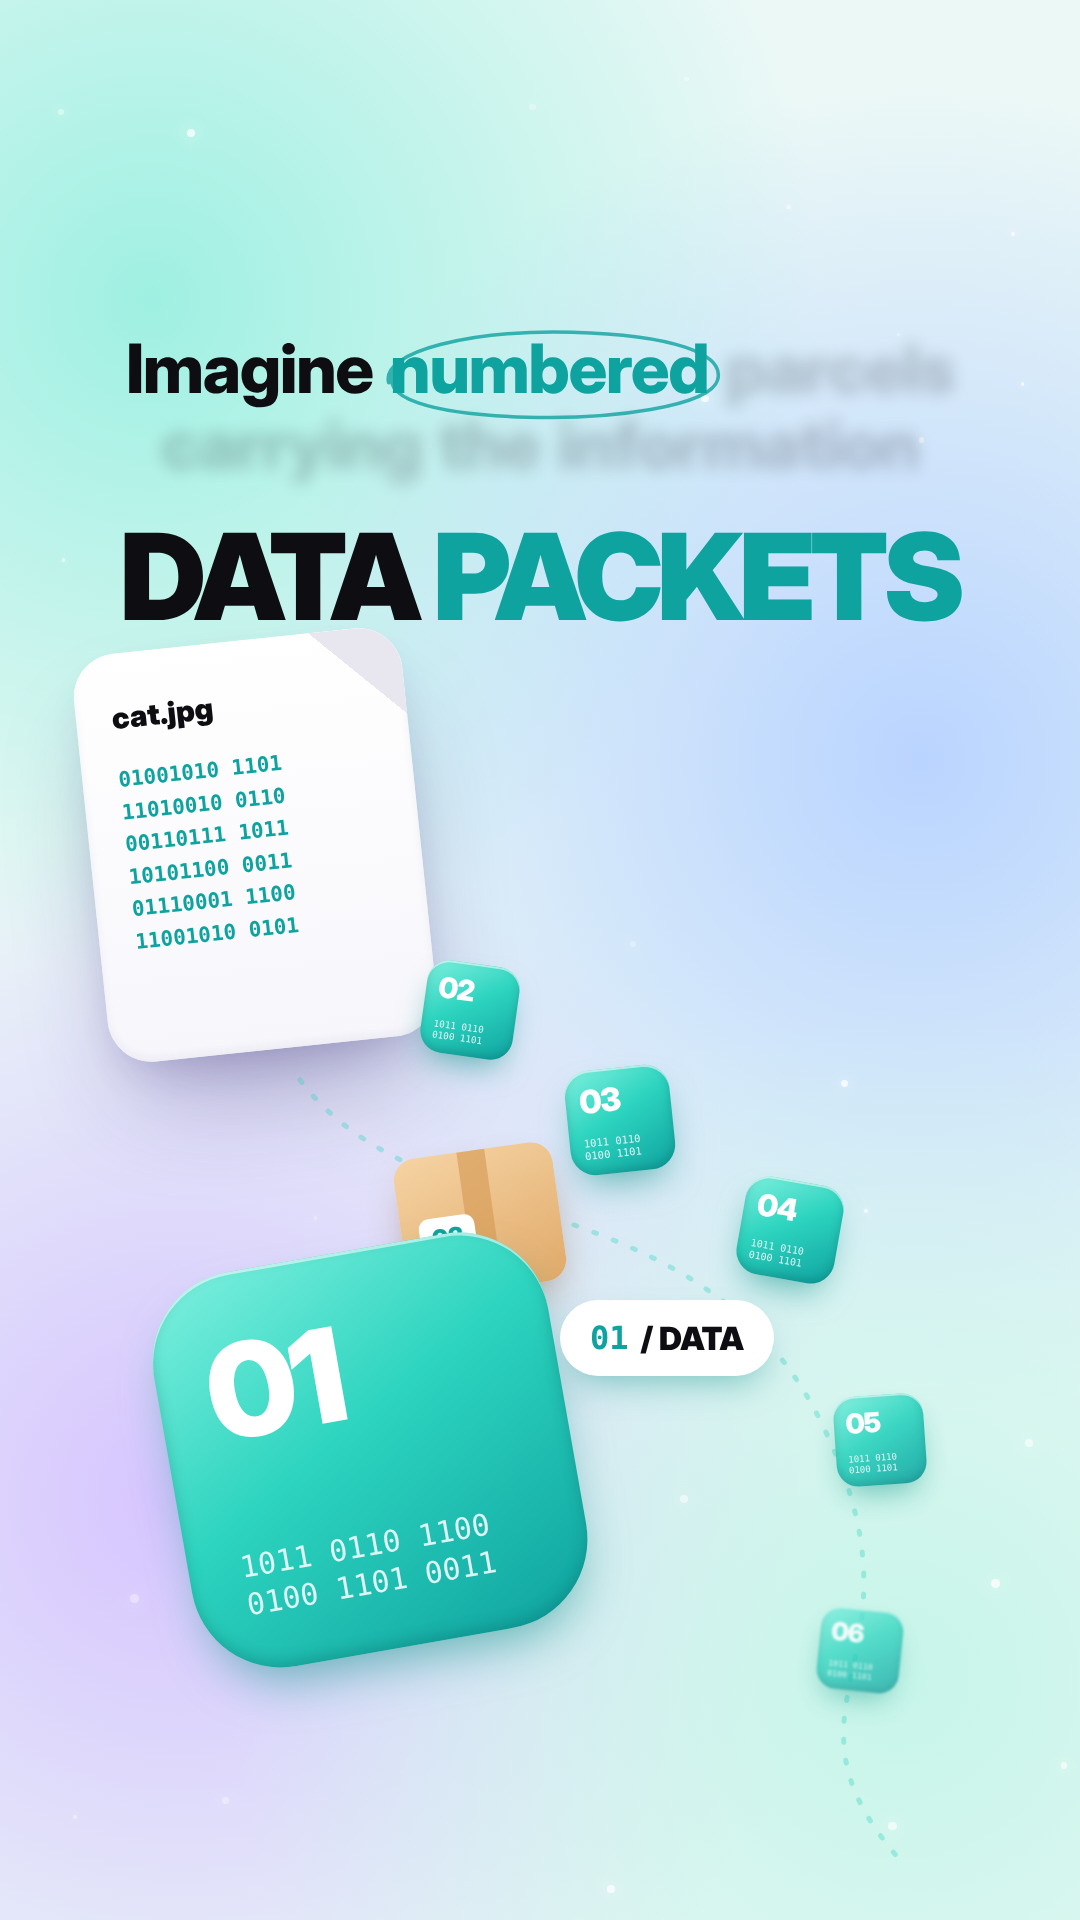
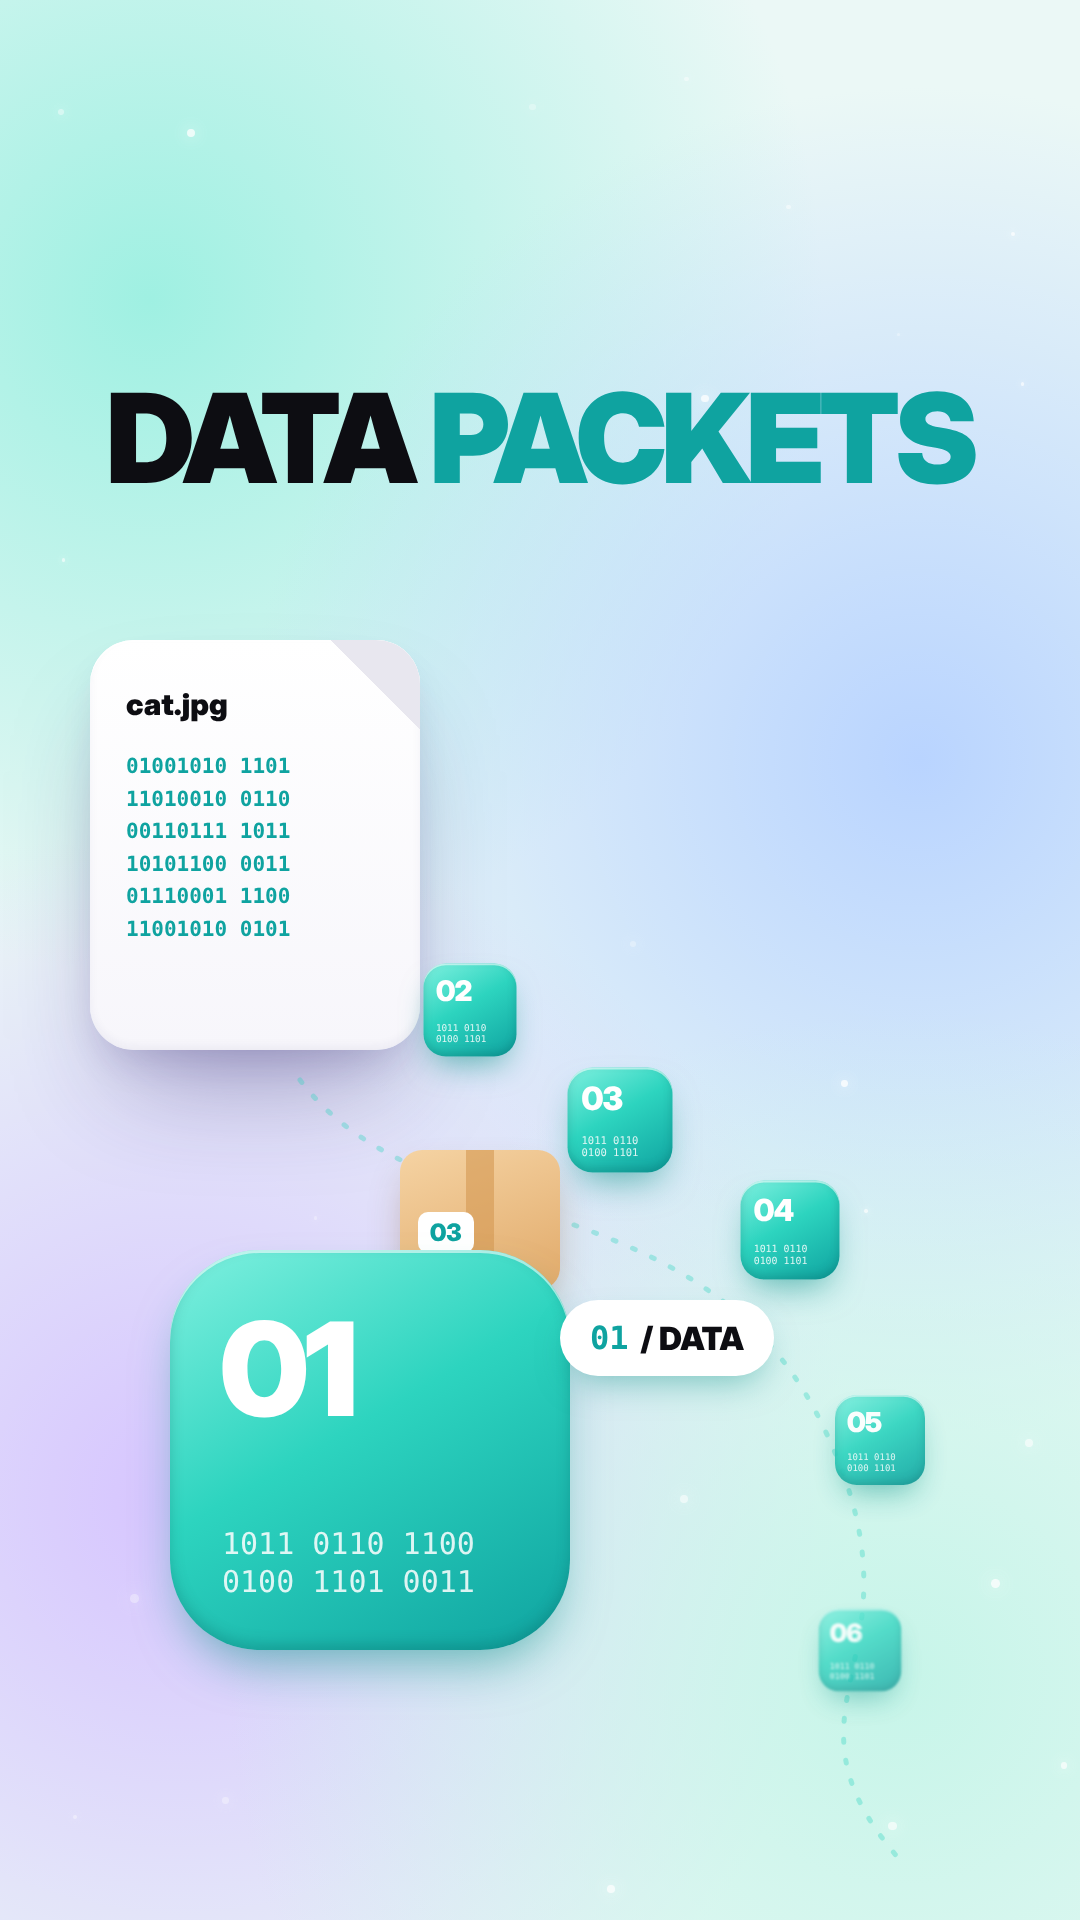
send-photo: keyframe mockup v2 (straight tiles, no top subtitles)
Claude-Session: https://claude.ai/code/session_01QM2gWBww91cH489KLK5YTv

diff --git a/projects/send-photo/src/mockup.html b/projects/send-photo/src/mockup.html
@@ -49,7 +49,8 @@ const ell2=0;const icon=(n,s,c,sw=2)=>`<svg width="${s}" height="${s}" viewBox="
 function bg(base,c){return `<div class="abs" style="inset:0;background:${base}">${[[150,300],[920,760],[180,1500],[900,1680]].map((p,i)=>`<div class="blob" style="left:${p[0]-700}px;top:${p[1]-700}px;background:radial-gradient(circle,${c[i]} 0%,${c[i]}00 68%)"></div>`).join('')}</div>`}
 function dust(n=30){let s='';for(let i=0;i<n;i++){const h=k=>{const x=Math.sin((i+k)*127.1+311.7)*43758.5453;return x-Math.floor(x)};const r=3+h(1)*6;s+=`<div class="abs" style="left:${h(2)*1080}px;top:${h(3)*1920}px;width:${r}px;height:${r}px;border-radius:50%;background:#fff;opacity:${.3+h(4)*.5};box-shadow:0 0 ${r*2}px #fff"></div>`}return s}
 // subtitle: words, number revealed, key word index → colour
-function sub(text,revealed,key={},y=330,ring={}){const w=text.split(' ');return `<div class="sub" style="top:${y}px">${w.map((x,i)=>`<span class="${i<revealed?'':'g'}" ${(key[i]&&i<revealed&&ring[i]!==0)?`data-k="${key[i]}"`:''} style="color:${key[i]||'#0d0d12'}">${x}</span>`).join('')}</div>`}
+function sub(){return '';}
+function subOld(text,revealed,key={},y=330,ring={}){const w=text.split(' ');return `<div class="sub" style="top:${y}px">${w.map((x,i)=>`<span class="${i<revealed?'':'g'}" ${(key[i]&&i<revealed&&ring[i]!==0)?`data-k="${key[i]}"`:''} style="color:${key[i]||'#0d0d12'}">${x}</span>`).join('')}</div>`}
 function ell(x,y,w,h,c){return `<svg class="abs" style="left:${x}px;top:${y}px;overflow:visible" width="${w}" height="${h}" viewBox="0 0 100 40" preserveAspectRatio="none"><path d="M8 24C6 12 30 4 56 5c26 1 40 8 38 18-2 10-28 15-50 14C20 36 4 30 10 18" fill="none" stroke="${c}" stroke-linecap="round" vector-effect="non-scaling-stroke" style="stroke-width:3.5px;opacity:.8"/></svg>`}
 
 // ── chat screens
@@ -64,21 +65,21 @@ function composer(withPhoto){return `
      <div style="position:absolute;left:345px;top:68px;font-weight:600;font-size:22px;color:#8b8a97">1 photo selected</div></div>`:''}
   <div class="abs" style="left:28px;bottom:40px;width:350px;height:92px;border-radius:46px;background:#f1f0f6;display:flex;align-items:center;padding-left:30px;color:#a5a4b0;font-weight:600;font-size:28px">Message</div>
   <div class="abs pill" id="sendBtn" style="right:28px;bottom:40px;width:170px;height:92px;background:linear-gradient(160deg,#ffae4a,#ff6a00);color:#fff;font-weight:900;font-size:32px;gap:8px;box-shadow:0 14px 30px -8px rgba(255,110,0,.6)">Send ${icon('send',30,'#fff',3)}</div>`}
-function phone(inner,x,y,s=1,rot='',extra=''){return `<div class="phone" style="left:${x-300}px;top:${y-620}px;transform:perspective(2200px) ${rot} scale(${s});${extra}"><div class="screen"><div class="island"></div>${inner}</div></div>`}
-function finger(x,y,s=1,press=0){return `<svg class="abs" id="finger" data-s="${s}" style="left:${x}px;top:${y}px;transform:rotate(-24deg) scale(${s});transform-origin:105px 30px;filter:drop-shadow(0 30px 30px rgba(60,30,40,.35))" width="210" height="520" viewBox="0 0 210 520">
+function phone(inner,x,y,s=1,rot='',extra=''){return `<div class="phone" style="left:${x-300}px;top:${y-620}px;transform:scale(${s});${extra}"><div class="screen"><div class="island"></div>${inner}</div></div>`}
+function finger(x,y,s=1,press=0){return `<svg class="abs" id="finger" data-s="${s}" style="left:${x}px;top:${y}px;transform:scale(${s});transform-origin:105px 30px;filter:drop-shadow(0 30px 30px rgba(60,30,40,.35))" width="210" height="520" viewBox="0 0 210 520">
   <defs><linearGradient id="sk" x1="0" x2="1"><stop offset="0" stop-color="#e9a983"/><stop offset=".5" stop-color="#f7cdb2"/><stop offset="1" stop-color="#df9874"/></linearGradient>
   <linearGradient id="nl" x1="0" y1="0" x2="0" y2="1"><stop offset="0" stop-color="#fbe3d8"/><stop offset="1" stop-color="#efbfae"/></linearGradient></defs>
   <path d="M40 520 L30 130 Q30 22 105 22 Q180 22 180 130 L176 520 Z" fill="url(#sk)"/>
   <path d="M66 86 Q105 40 144 86 L140 168 Q105 182 70 168 Z" fill="url(#nl)" stroke="#d99a83" stroke-width="2"/>
   <path d="M70 270 Q105 282 140 270M74 300 Q105 310 136 300" stroke="#c9876a" stroke-width="3" fill="none" opacity=".5" stroke-linecap="round"/></svg>`}
-function blk(x,y,n,s=1,r=0,o=1,blur=0){return `<div class="blk" style="left:${x-75}px;top:${y-75}px;transform:rotate(${r}deg) scale(${s});opacity:${o};filter:${blur?`blur(${blur}px)`:'none'}">
+function blk(x,y,n,s=1,r=0,o=1,blur=0){return `<div class="blk" style="left:${x-75}px;top:${y-75}px;transform:scale(${s});opacity:${o};filter:${blur?`blur(${blur}px)`:'none'}">
   <div class="n">${n}</div><div class="bits mono">1011 0110<br>0100 1101</div></div>`}
 
 // ── frames
 const F={};
 F['1a']=()=>bg('#f7efe9',['#ffc28c','#ff9fcf','#b8a3ff','#ffe39a'])+dust()+
   sub('You tap Send.',3,{2:'#FF7A1A'})+
-  phone(chatHeader('Alex','linear-gradient(160deg,#7aa2ff,#4f6bff)')+composer(true),540,1040,1.0,'rotateX(10deg) rotateY(-16deg) rotateZ(2deg)')+finger(0,0,1.25);
+  phone(chatHeader('Alex','linear-gradient(160deg,#7aa2ff,#4f6bff)')+composer(true),540,950,1.1,'rotateX(10deg) rotateY(-16deg) rotateZ(2deg)')+finger(0,0,1.25);
 
 F['1b']=()=>bg('#f6eef8',['#ffc9a0','#c9b2ff','#a9c8ff','#ffd2e6'])+dust()+
   sub('But how does this photo actually reach your friend?',6,{})+
@@ -88,27 +89,27 @@ F['1b']=()=>bg('#f6eef8',['#ffc9a0','#c9b2ff','#a9c8ff','#ffd2e6'])+dust()+
   phone(chatHeader('Sam','linear-gradient(160deg,#ffae4a,#ff6a00)')+composer(false),830,1330,.62,'rotateY(-14deg)')+
   `<svg class="abs" style="left:0;top:0" width="1080" height="1920"><path d="M410 1320 C 500 1260, 580 1260, 670 1320" stroke="#2dd4bf" stroke-width="7" fill="none" stroke-linecap="round" stroke-dasharray="2 16"/>
    ${[[470,1280],[540,1270],[610,1282]].map(p=>`<circle cx="${p[0]}" cy="${p[1]}" r="9" fill="#2dd4bf"/>`).join('')}</svg>`+
-  `<div class="abs" style="left:478px;top:1178px;width:124px;height:176px;border-radius:22px;overflow:hidden;transform:rotate(-6deg);box-shadow:0 20px 40px -10px rgba(40,30,110,.45);border:5px solid #fff"><img src="${CAT}" style="width:100%;height:100%;object-fit:cover"></div>`+
-  `<div class="cap" style="left:0;width:1080px;top:560px;font-size:104px">HOW DOES IT<br>GET <span style="color:#14b8a6">THERE?</span></div>`;
+  `<div class="abs" style="left:478px;top:1178px;width:124px;height:176px;border-radius:22px;overflow:hidden;box-shadow:0 20px 40px -10px rgba(40,30,110,.45);border:5px solid #fff"><img src="${CAT}" style="width:100%;height:100%;object-fit:cover"></div>`+
+  `<div class="cap" style="left:0;width:1080px;top:400px;font-size:116px">HOW DOES IT<br>GET <span style="color:#14b8a6">THERE?</span></div>`;
 
 F['2']=()=>bg('#ebf8f6',['#9ff0e2','#b9d4ff','#d6c4ff','#c7f5e9'])+dust()+
   sub('Imagine numbered parcels carrying the information',2,{1:'#0FA3A0'})+
   // file icon with data lines
-  `<div class="card" style="left:90px;top:640px;width:330px;height:410px;border-radius:44px;transform:rotate(-6deg)">
+  `<div class="card" style="left:90px;top:640px;width:330px;height:410px;border-radius:44px">
      <div class="abs" style="right:0;top:0;width:90px;height:90px;background:linear-gradient(225deg,#e8e7ef 50%,transparent 50%)"></div>
      <div class="abs mono" style="left:36px;top:110px;font-size:21px;line-height:1.55;color:#0fa3a0;font-weight:700">01001010 1101<br>11010010 0110<br>00110111 1011<br>10101100 0011<br>01110001 1100<br>11001010 0101</div>
      <div class="abs" style="left:36px;top:46px;font-weight:900;font-size:30px">cat.jpg</div></div>`+
   `<svg class="abs" style="left:0;top:0" width="1080" height="1920"><path d="M300 1080 C 420 1240, 700 1180, 820 1420 S 760 1700, 900 1860" stroke="#2dd4bf" stroke-width="5" fill="none" opacity=".35" stroke-dasharray="3 18" stroke-linecap="round"/></svg>`+
   blk(470,1010,'02',.62,8)+blk(620,1120,'03',.7,-6)+blk(790,1230,'04',.66,10)+blk(880,1440,'05',.6,-4,.9)+blk(860,1650,'06',.55,6,.75,2)+
   // parcels
-  `<div class="abs" style="left:400px;top:1150px;transform:rotate(-8deg)"><div class="sq" style="width:160px;height:140px;border-radius:22px;background:linear-gradient(160deg,#f5d3a3,#e1aa6a);box-shadow:0 20px 40px -12px rgba(120,70,20,.45);position:relative">
+  `<div class="abs" style="left:400px;top:1150px"><div class="sq" style="width:160px;height:140px;border-radius:22px;background:linear-gradient(160deg,#f5d3a3,#e1aa6a);box-shadow:0 20px 40px -12px rgba(120,70,20,.45);position:relative">
      <div style="position:absolute;left:66px;top:0;width:28px;height:100%;background:#d39752;opacity:.6"></div>
      <div style="position:absolute;left:18px;top:62px;padding:6px 12px;border-radius:10px;background:#fff;font-weight:900;font-size:24px;color:#0fa3a0">03</div></div></div>`+
   // hero block close to camera
-  `<div class="blk" style="left:170px;top:1250px;width:400px;height:400px;border-radius:90px;transform:rotate(-10deg)"><div class="n" style="left:50px;top:40px;font-size:130px">01</div>
+  `<div class="blk" style="left:170px;top:1250px;width:400px;height:400px;border-radius:90px"><div class="n" style="left:50px;top:40px;font-size:130px">01</div>
      <div class="bits mono" style="left:52px;bottom:50px;font-size:30px">1011 0110 1100<br>0100 1101 0011</div></div>`+
   `<div class="pill" style="position:absolute;left:560px;top:1300px;height:76px;padding:0 30px;background:#fff;box-shadow:0 16px 34px -12px rgba(13,148,136,.5);font-weight:900;font-size:32px;color:#0d0d12;gap:12px"><span class="mono" style="color:#0fa3a0">01</span> / DATA</div>`+
-  `<div class="cap" style="left:0;width:1080px;top:520px;font-size:120px;color:#0d0d12">DATA <span style="color:#0fa3a0">PACKETS</span></div>`;
+  `<div class="cap" style="left:0;width:1080px;top:380px;font-size:124px;color:#0d0d12">DATA <span style="color:#0fa3a0">PACKETS</span></div>`;
 
 F['3']=()=>{
   const nodes=[[300,1150],[700,1010],[380,860]];
@@ -132,7 +133,7 @@ F['3']=()=>{
   blk(470,1240,'01',.42,-8)+blk(330,1010,'02',.36,6,.85)+
   `<div class="abs" style="left:640px;top:1100px;font-weight:900;font-size:22px;letter-spacing:.1em;color:#8b8a97">NODE</div>`+
   `<div class="cap" style="left:470px;top:960px;font-size:96px;text-align:left;transform:translateX(330px) translateX(-100%)"></div>`+
-  `<div class="cap" style="left:140px;top:1720px;width:800px;font-size:118px;color:#3d6bff">ROUTERS</div>`;};
+  `<div class="cap" style="left:0;top:360px;width:1080px;font-size:124px;color:#3d6bff">ROUTERS</div>`;};
 
 F['4']=()=>`<div class="abs" style="inset:0;background:linear-gradient(180deg,#e9f6ff 0%,#bfe6f3 18%,#7ccbe0 45%,#3e9fc0 75%,#2a7fa6 100%)"></div>`+
   // light rays
@@ -146,7 +147,7 @@ F['4']=()=>`<div class="abs" style="inset:0;background:linear-gradient(180deg,#e
      <defs><linearGradient id="sh" x1="0" y1="0" x2="0" y2="1"><stop offset="0" stop-color="#5b6170"/><stop offset=".45" stop-color="#2a2f3a"/><stop offset="1" stop-color="#151820"/></linearGradient>
        <linearGradient id="in" x1="0" y1="0" x2="0" y2="1"><stop offset="0" stop-color="#1f3b4d"/><stop offset="1" stop-color="#0b1a24"/></linearGradient>
        <filter id="gl"><feGaussianBlur stdDeviation="6"/></filter></defs>
-     <g transform="rotate(-14 540 1300)">
+     <g>
        <rect x="-200" y="1210" width="1500" height="200" rx="100" fill="url(#sh)"/>
        <rect x="260" y="1210" width="560" height="200" fill="url(#in)"/>
        <ellipse cx="260" cy="1310" rx="34" ry="100" fill="#3a4050" stroke="#8a90a0" stroke-width="4"/>
@@ -159,11 +160,11 @@ F['4']=()=>`<div class="abs" style="inset:0;background:linear-gradient(180deg,#e
        <line x1="680" y1="1275" x2="760" y2="1275" stroke="#ffffff" stroke-width="5" stroke-linecap="round" opacity=".8"/>
      </g></svg>`+
   `<div class="pill" style="position:absolute;left:600px;top:1060px;height:72px;padding:0 28px;background:rgba(255,255,255,.9);font-weight:900;font-size:28px;color:#0e7490;gap:10px;box-shadow:0 14px 30px -10px rgba(0,60,90,.4)">FIBER · LIGHT</div>`+
-  `<div class="cap" style="left:0;width:1080px;top:660px;font-size:112px;color:#ffffff;text-shadow:0 10px 40px rgba(0,60,90,.35)">PULSES<br>OF LIGHT</div>`;
+  `<div class="cap" style="left:0;width:1080px;top:640px;font-size:124px;color:#ffffff;text-shadow:0 10px 40px rgba(0,60,90,.35)">PULSES<br>OF LIGHT</div>`;
 
 F['5']=()=>bg('#fdf3ea',['#ffd0a3','#9ff0e2','#ffc2dc','#d4c4ff'])+dust()+
   sub('The app displays your photo.',5,{4:'#FF7A1A'})+
-  `<div class="cap" style="left:0;width:1080px;top:520px;font-size:104px">PHOTO <span style="color:#16c060">RECEIVED</span></div>`+
+  `<div class="cap" style="left:0;width:1080px;top:400px;font-size:112px">PHOTO <span style="color:#16c060">RECEIVED</span></div>`+
   phone(chatHeader('Alex','linear-gradient(160deg,#7aa2ff,#4f6bff)')+
     `<div class="abs" style="left:28px;top:250px;padding:20px 26px;border-radius:30px 30px 30px 10px;background:#efeef4;font-weight:600;font-size:26px">Look who woke up 😺</div>
      <div class="abs" style="left:28px;top:360px;width:360px;height:520px;border-radius:36px 36px 36px 10px;overflow:hidden;box-shadow:0 18px 40px -12px rgba(0,0,0,.35)"><img src="${CAT}" style="width:100%;height:100%;object-fit:cover"></div>
@@ -175,7 +176,7 @@ F['6']=()=>{
   const nodes=[[300,1190],[620,1110]];
   return bg('#f3effb',['#c9b2ff','#9ff0e2','#a9c8ff','#ffd2e6'])+dust()+
   sub('A whole network behind one tiny action.',4,{})+
-  `<div class="cap" style="left:70px;top:560px;font-size:96px;text-align:left">ONE TAP.<br>A WHOLE<br><span style="color:#14b8a6">NETWORK.</span></div>`+
+  `<div class="cap" style="left:70px;top:380px;font-size:112px;text-align:left">ONE TAP.<br>A WHOLE<br><span style="color:#14b8a6">NETWORK.</span></div>`+
   `<div class="abs" style="left:640px;top:1250px;width:440px;height:330px;border-radius:60px 0 0 60px;background:linear-gradient(180deg,#bfe6f3,#3e9fc0);box-shadow:0 30px 60px -20px rgba(0,60,90,.35);overflow:hidden">
      <div class="abs" style="left:0;right:0;bottom:0;height:70px;background:#e6cf9c"></div><div class="abs" style="left:30px;right:0;bottom:56px;height:22px;border-radius:11px;background:#232733"></div>
      <div class="abs" style="left:34px;top:28px;font-weight:900;font-size:22px;letter-spacing:.08em;color:#fff">UNDERSEA CABLE</div></div>`+
